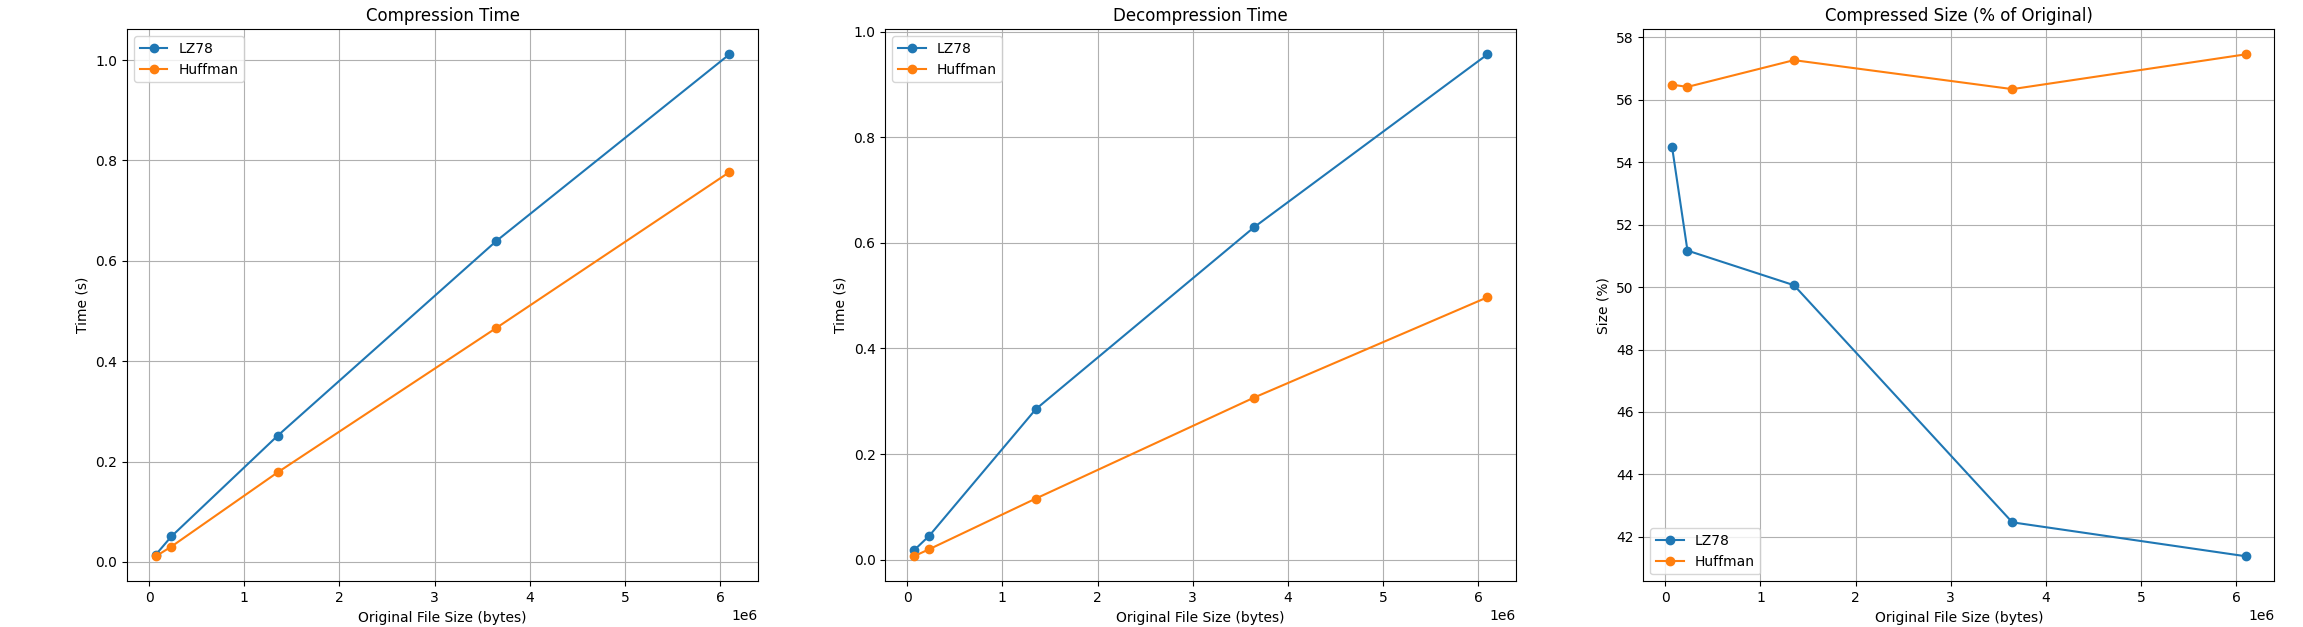
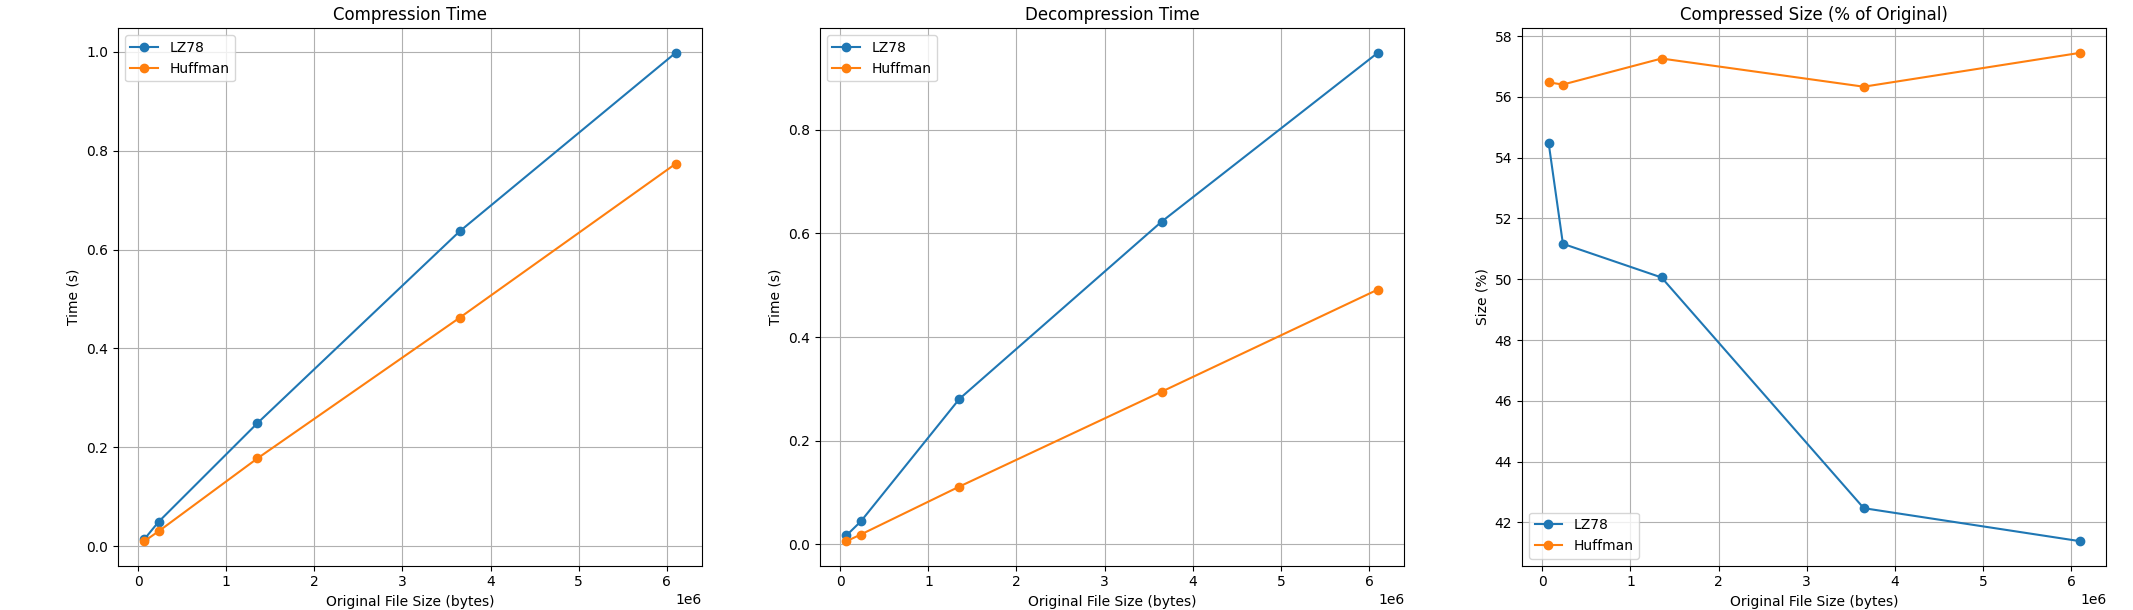
updated test results

diff --git a/docs/testingreport.md b/docs/testingreport.md
@@ -39,21 +39,21 @@ The selected test inputs are:
 
 | File Number | Compression time | Compressed size | Decompression time |
 |---- | ----- | ------------- | ---- |
-| 1 | 1.0113 s | 2 523 983 bytes (41.384% of original) | 0.956958 s |
-| 2 | 0.639119 s | 1 549 077 bytes (42.4689% of original) | 0.629769 s |
-| 3 | 0.251665 s | 676 879 bytes (50.0583% of original)  | 0.285039 s |
-| 4 | 0.0505991 s | 119 188 bytes (51.1659% of original) | 0.0454227 s |
-| 5 | 0.0145373 s | 38 446 bytes (54.4931% of original) | 0.0175181 s |
+| 1 | 0.997554 s | 2 523 983 bytes (41.384% of original) | 0.947925 s |
+| 2 | 0.636617 s | 1 549 077 bytes (42.4689% of original) | 0.622523 s |
+| 3 | 0.248689 s | 676 879 bytes (50.0583% of original)  | 0.280689 s |
+| 4 | 0.0496594 s | 119 188 bytes (51.1659% of original) | 0.0443276 s |
+| 5 | 0.0144075 s | 38 446 bytes (54.4931% of original) | 0.0174719 s |
 
 ### Results: Huffman
 
 | File Number | Compression time | Compressed size | Decompression time |
 |---- | ----- | ------------- | ---- |
-| 1 | 0.776622 s | 3 503 596 bytes (57.4461% of original) | 0.496903 s |
-| 2 | 0.465985 s | 2 054 791 bytes (56.3334% of original) | 0.307026 s |
-| 3 | 0.178603 s | 774 266 bytes (57.2605% of original) | 0.115687 s |
-| 4 | 0.0304196 s | 131 391 bytes (56.4045% of original) | 0.0198418 s |
-| 5 | 0.0112692 s | 39 845 bytes (56.4761% of original) | 0.0064111 s |
+| 1 | 0.773198 s | 3 503 596 bytes (57.4461% of original) | 0.491377 s |
+| 2 | 0.461918 s | 2 054 791 bytes (56.3334% of original) | 0.294589 s |
+| 3 | 0.177548 s | 774 266 bytes (57.2605% of original) | 0.111617 s |
+| 4 | 0.0304467 s | 131 391 bytes (56.4045% of original) | 0.0191236 s |
+| 5 | 0.0103944 s | 39 845 bytes (56.4761% of original) | 0.0063338 s |
 
 ### Analysis
 
